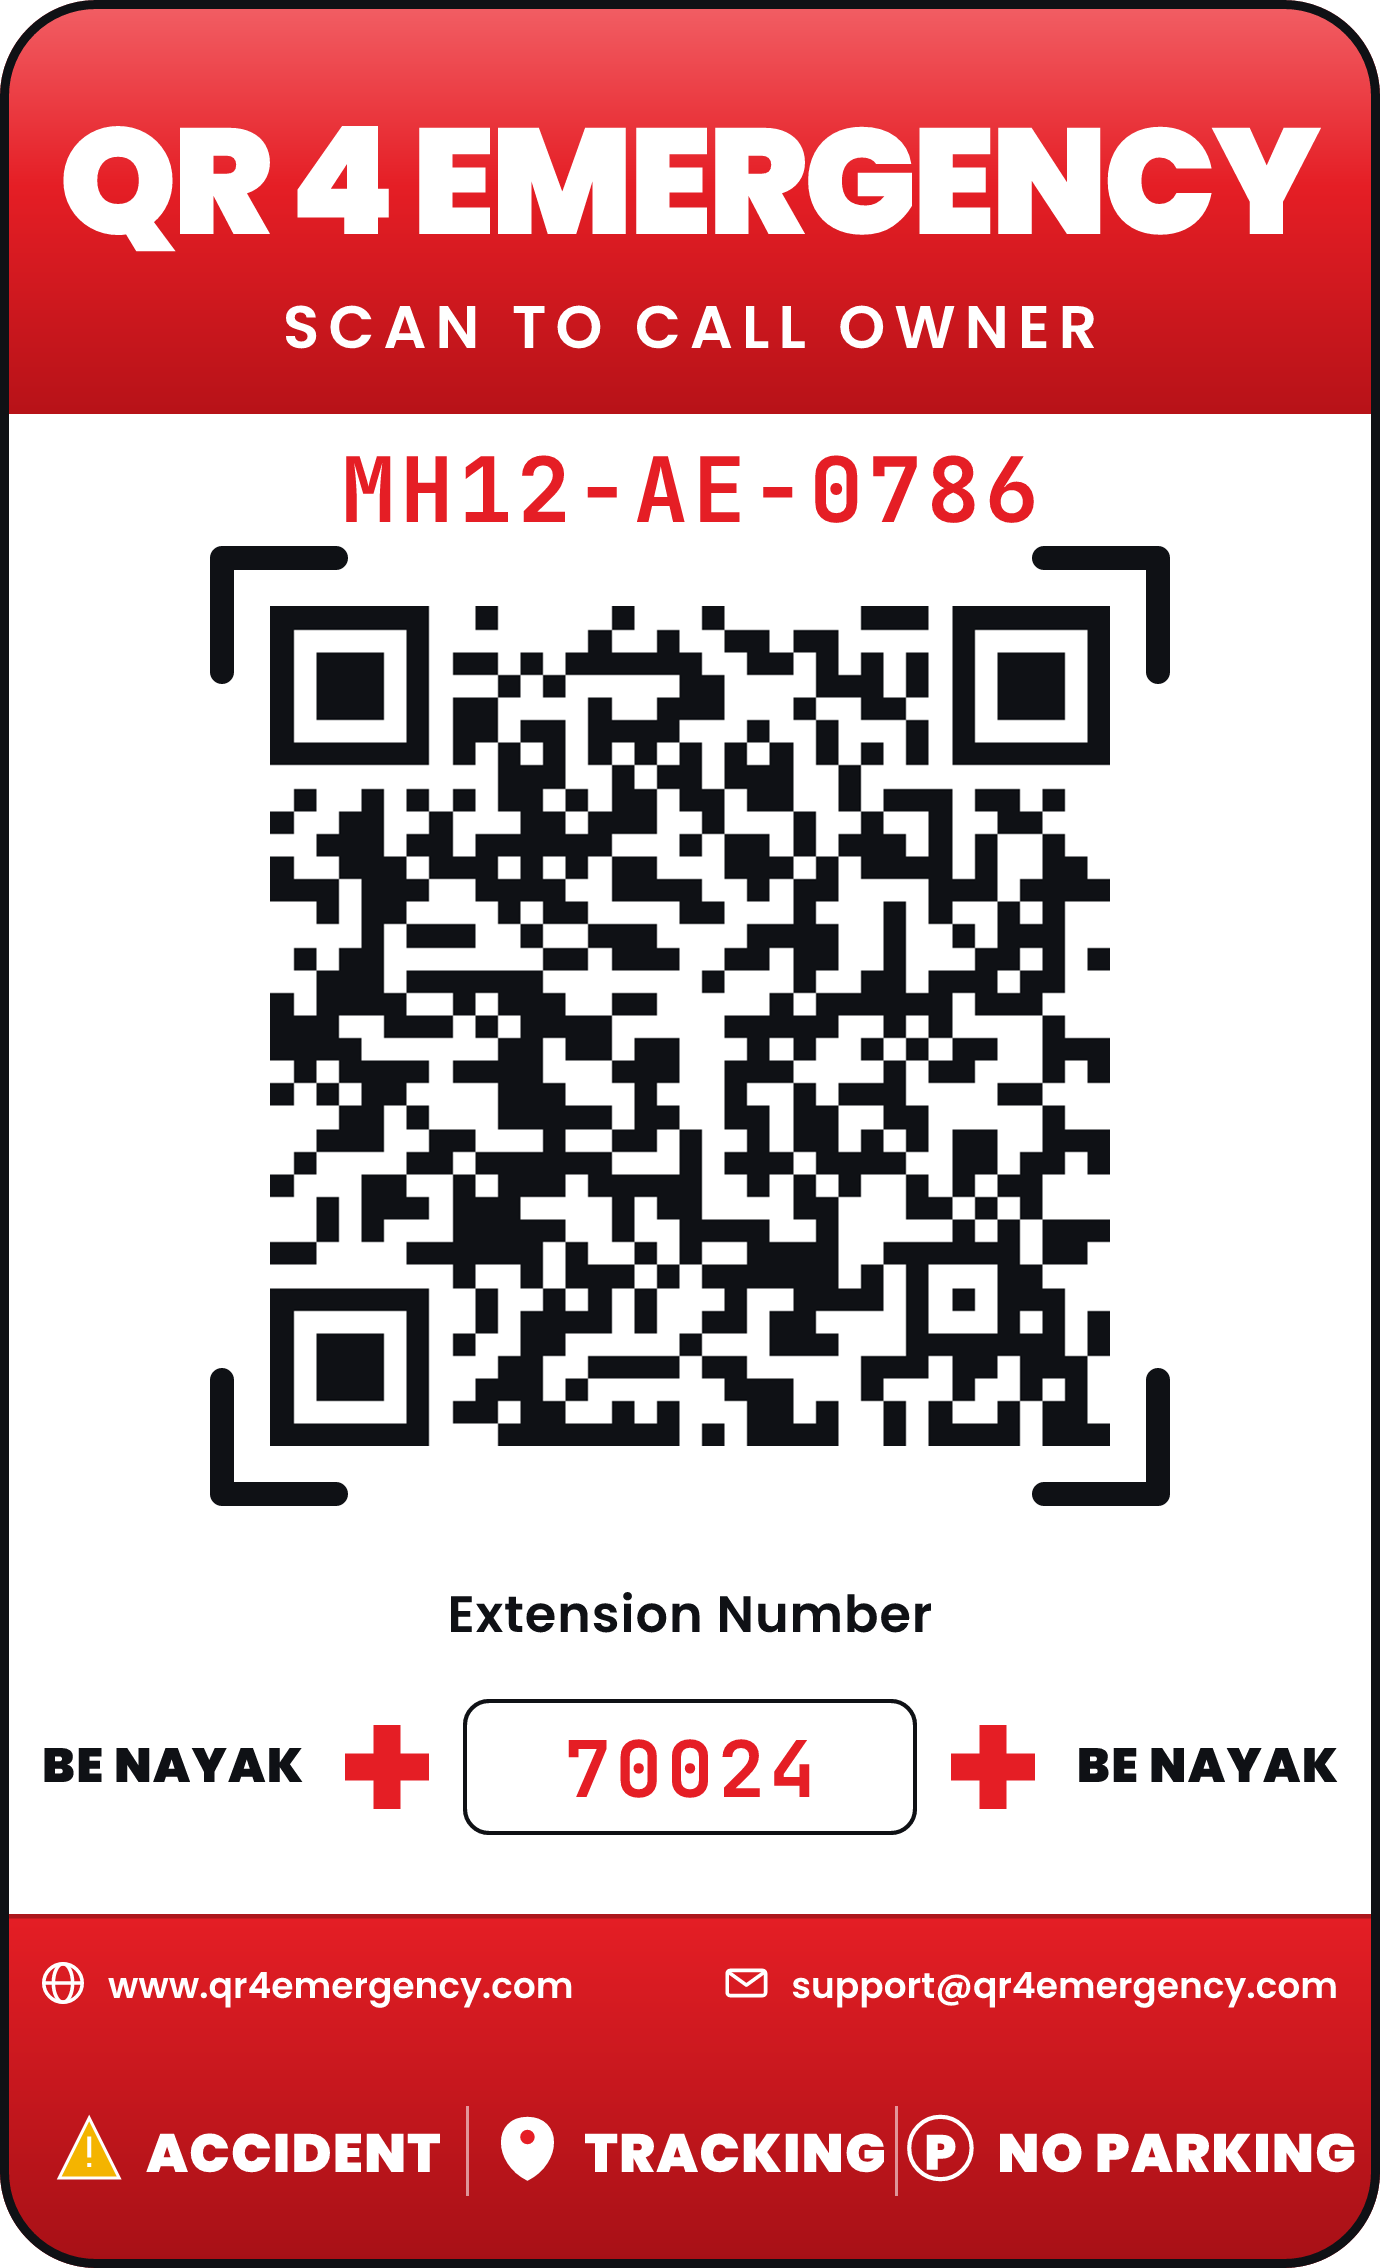
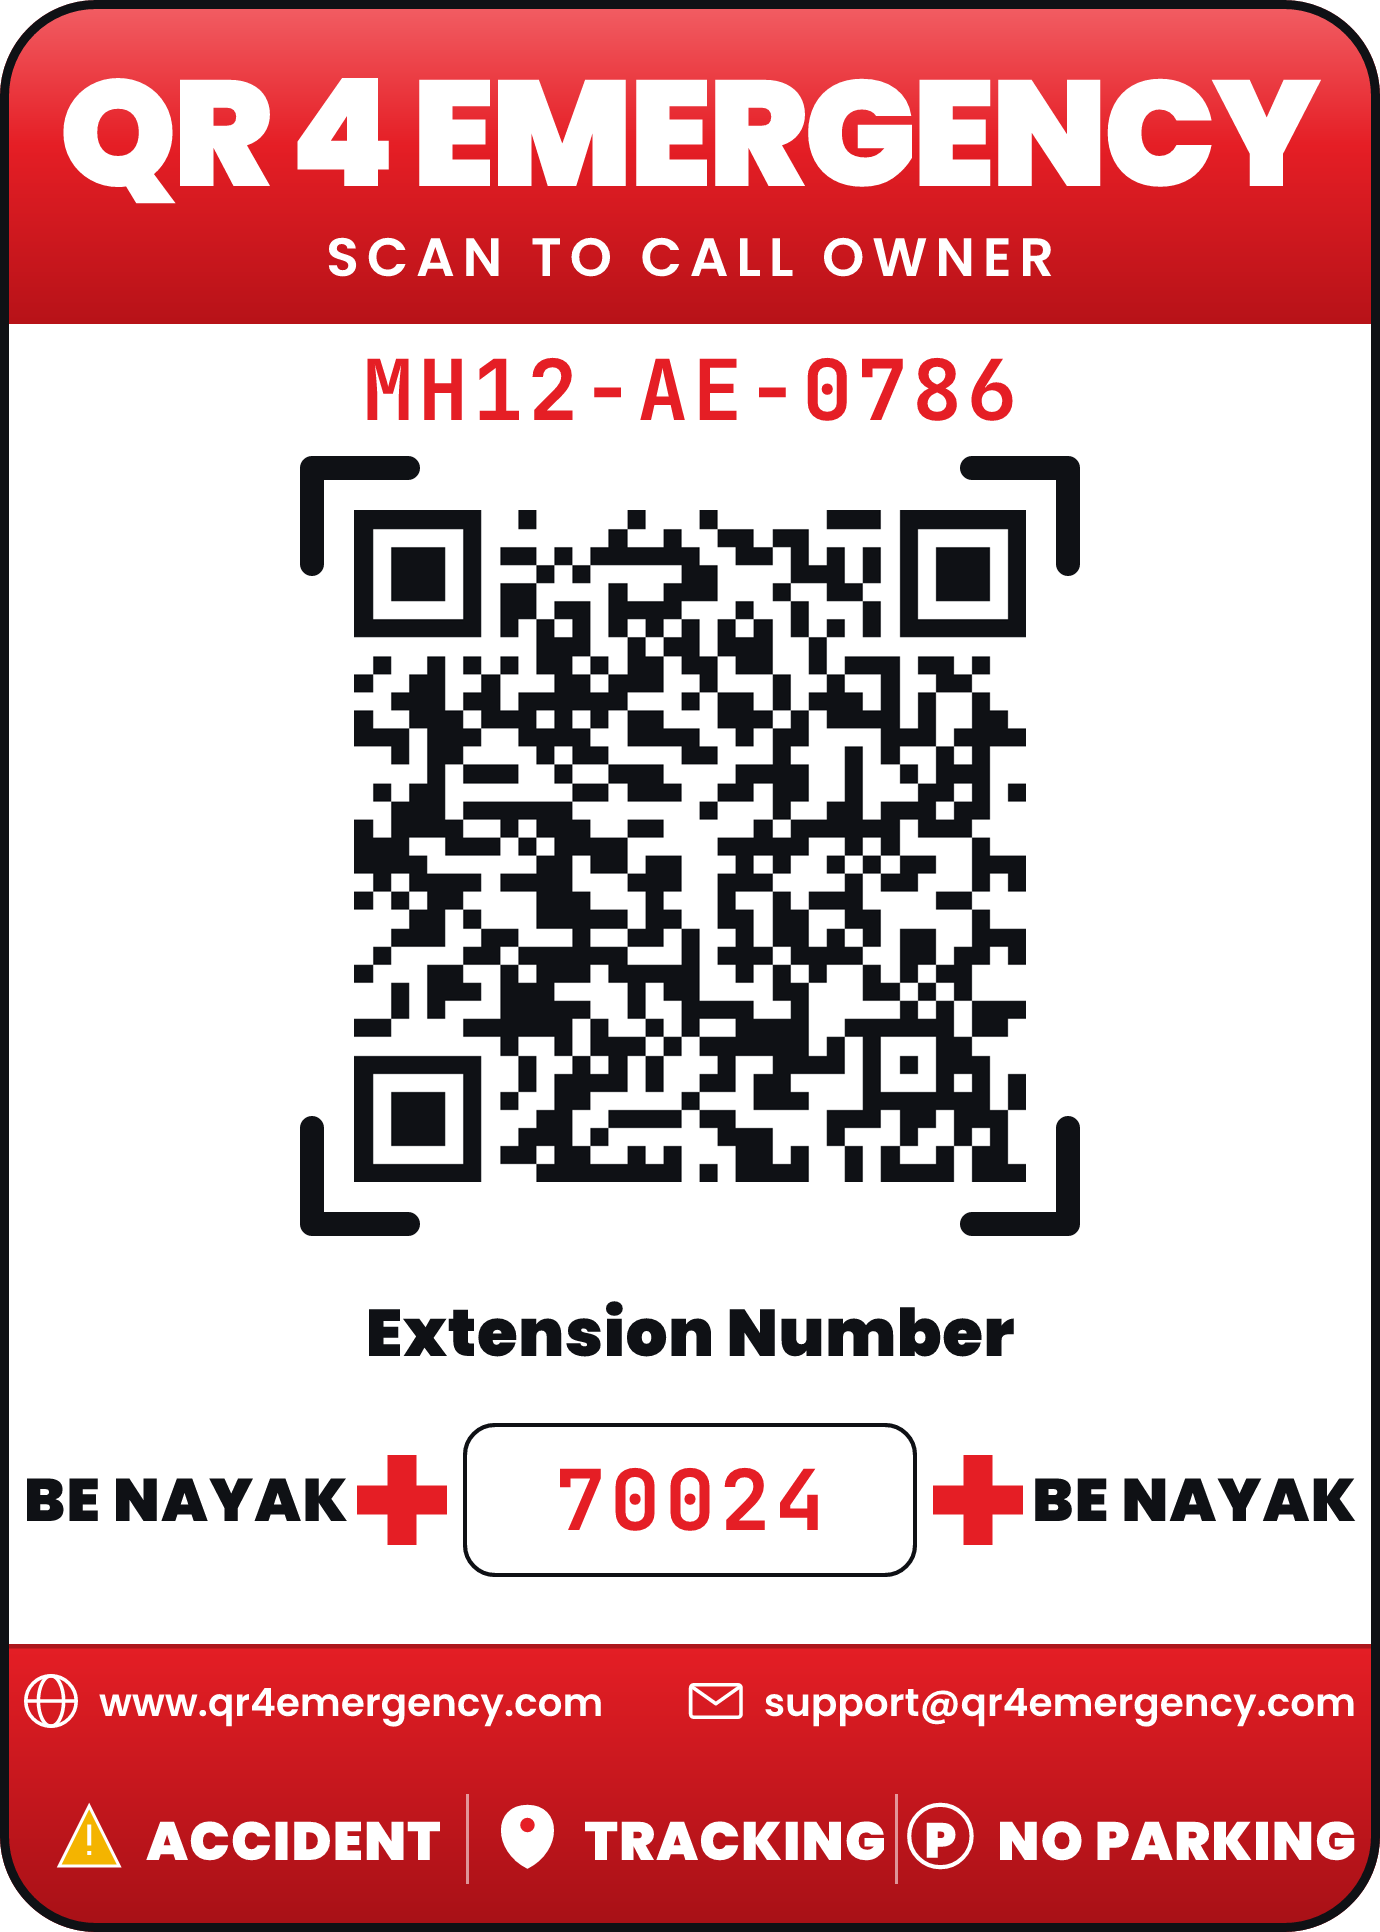
feat: refine buildStickerSvg function for improved layout and visual consistency

diff --git a/src/utils/sticker.js b/src/utils/sticker.js
@@ -242,35 +242,35 @@ const W = 460;
  * @returns {string} SVG document
  */
 function buildStickerSvg({ qrPngB64, digits, showVehicle, vehicleNumber }) {
-  // Vertical layout — anchors declared top-down so the file reads in
-  // the same order as the sticker. Bumped to match the reference art:
-  // taller header for a much bigger "QR 4 EMERGENCY" wordmark, taller
-  // footer for larger badges + icons, outer red border ring.
-  const HEADER_H = 138;
+  // Vertical layout — compact spec: tighter red bands (header + footer),
+  // smaller QR frame, larger middle-section fonts (Extension Number,
+  // BE NAYAK). The header keeps the big wordmark by reducing the
+  // internal padding, not the type size.
+  const HEADER_H = 108;
   const VEHICLE_ROW_H = showVehicle ? 44 : 8;
   const QR_FRAME_TOP = HEADER_H + VEHICLE_ROW_H;
-  const QR_FRAME_W = 320;
-  const QR_FRAME_H = 320;
+  const QR_FRAME_W = 260;
+  const QR_FRAME_H = 260;
   const QR_FRAME_X = (W - QR_FRAME_W) / 2;
-  const QR_SIZE = 280;
+  const QR_SIZE = 224;
   const QR_X = (W - QR_SIZE) / 2;
   const QR_Y = QR_FRAME_TOP + (QR_FRAME_H - QR_SIZE) / 2;
 
   const AFTER_QR_Y = QR_FRAME_TOP + QR_FRAME_H;
-  const EXT_LABEL_Y = AFTER_QR_Y + 42;
+  const EXT_LABEL_Y = AFTER_QR_Y + 40;
   const ROW_Y = EXT_LABEL_Y + 22;
-  const ROW_H = 46;
+  const ROW_H = 52;
 
-  const FOOTER_TOP = ROW_Y + ROW_H + 26;
-  const FOOTER_H = 118;
+  const FOOTER_TOP = ROW_Y + ROW_H + 22;
+  const FOOTER_H = 96;
   const H = FOOTER_TOP + FOOTER_H;
 
   // Bracket arm length — bold Ls at every corner of the QR frame.
-  // Thicker (8) balances better against the QR modules than 6.
-  const ARM = 42;
+  // Scaled down proportionally to the smaller 260px QR frame.
+  const ARM = 36;
   const BRACKET_W = 8;
 
-  // Outer border ring — thin red stroke around the entire sticker.
+  // Outer border ring — thin black stroke around the entire sticker.
   // Reference art shows this as part of the printed edge trim; sticker
   // vinyls also benefit from a visible cut-line for guillotine trimming.
   const BORDER_W = 3;
@@ -288,23 +288,28 @@ function buildStickerSvg({ qrPngB64, digits, showVehicle, vehicleNumber }) {
     `;
   };
 
-  // Extension pill — sized to give 5-digit extension numbers room to
-  // breathe. Was 140×42; 150×44 gives ~5px more horizontal padding.
+  // Extension pill — sized proportionally to the larger BE NAYAK
+  // labels flanking it. 150×50 keeps ~5px of vertical padding around
+  // the 28pt mono digits and holds a 5-digit extension without cramping.
   const PILL_W = 150;
-  const PILL_H = 44;
+  const PILL_H = 50;
   const PILL_X = (W - PILL_W) / 2;
   const PILL_Y = ROW_Y + (ROW_H - PILL_H) / 2;
 
   // Bottom row horizontal layout: BE NAYAK ... cross ... pill ... cross ... BE NAYAK
   // Every gap is computed from real measured widths so the row stays
   // perfectly symmetric — no hardcoded label-width guesses that drift
-  // when font or copy changes.
-  const CROSS_SIZE = 28;
-  const CROSS_TO_PILL_GAP = 12;
+  // when font or copy changes. Cross 30 balances the 20pt BE NAYAK
+  // without eating so much horizontal room that BE NAYAK collides
+  // with it (which happened at 32 + 170px pill).
+  const CROSS_SIZE = 30;
+  const CROSS_TO_PILL_GAP = 6;
   const leftCrossCx = PILL_X - CROSS_TO_PILL_GAP - CROSS_SIZE / 2;
   const rightCrossCx = PILL_X + PILL_W + CROSS_TO_PILL_GAP + CROSS_SIZE / 2;
-  const leftLabelX = 14;
-  const rightLabelX = W - 14;
+  // BE NAYAK anchors — pushed closer to the sticker edges so the 20pt
+  // wordmark has room to render without colliding with the crosses.
+  const leftLabelX = 8;
+  const rightLabelX = W - 8;
   const rowCy = ROW_Y + ROW_H / 2;
 
   return `<?xml version="1.0" encoding="UTF-8"?>
@@ -357,14 +362,14 @@ function buildStickerSvg({ qrPngB64, digits, showVehicle, vehicleNumber }) {
          curved-plastic look without needing a full inner-shadow filter. -->
     <rect x="0" y="0" width="${W}" height="3" fill="#FFFFFF" opacity="0.22"/>
     <!-- "QR 4 EMERGENCY" wordmark — sized to fill ~90% of the sticker
-         width, matching the reference art. Poppins Black at size 50
-         with tighter tracking so it reads as one solid wordmark and
-         stays inside the sticker edges (W=460 minus edge pad). -->
-    ${textPath('QR 4 EMERGENCY', W / 2, 78, {
+         width. Poppins Black at size 50 with tighter tracking so it
+         reads as one solid wordmark and stays inside the sticker edges.
+         Baselines shifted up for the compact 108px header. -->
+    ${textPath('QR 4 EMERGENCY', W / 2, 62, {
       font: FONT_HEADING, size: 50, fill: WHITE, anchor: 'middle', letterSpacing: -1.5,
     })}
-    ${textPath('SCAN TO CALL OWNER', W / 2, 116, {
-      font: FONT_BODY, size: 20, fill: WHITE, anchor: 'middle', letterSpacing: 3.0,
+    ${textPath('SCAN TO CALL OWNER', W / 2, 92, {
+      font: FONT_BODY, size: 18, fill: WHITE, anchor: 'middle', letterSpacing: 2.6,
     })}
 
     <!-- ── Vehicle number — always shown when supplied (post-activation
@@ -373,8 +378,8 @@ function buildStickerSvg({ qrPngB64, digits, showVehicle, vehicleNumber }) {
          printed sticker artwork. ─────────────────────────────────── -->
     ${
       showVehicle
-        ? textPath(formatVehicleNumber(vehicleNumber), W / 2, HEADER_H + 36, {
-            font: FONT_MONO, size: 30, fill: RED, anchor: 'middle', letterSpacing: 1.5,
+        ? textPath(formatVehicleNumber(vehicleNumber), W / 2, HEADER_H + 32, {
+            font: FONT_MONO, size: 28, fill: RED, anchor: 'middle', letterSpacing: 1.5,
           })
         : ''
     }
@@ -411,28 +416,29 @@ function buildStickerSvg({ qrPngB64, digits, showVehicle, vehicleNumber }) {
 
     <!-- ── "Extension Number" label ────────────────────────── -->
     ${textPath('Extension Number', W / 2, EXT_LABEL_Y, {
-      font: FONT_BODY, size: 17, fill: INK, anchor: 'middle', letterSpacing: 0.3,
+      font: FONT_HEADING, size: 22, fill: INK, anchor: 'middle', letterSpacing: 0.2,
     })}
 
     <!-- ── Bottom row: BE NAYAK · cross · pill · cross · BE NAYAK ── -->
-    ${textPath('BE NAYAK', leftLabelX, rowCy + 5, {
-      font: FONT_HEADING, size: 16, fill: INK, anchor: 'start', letterSpacing: 0.5,
+    ${textPath('BE NAYAK', leftLabelX, rowCy + 7, {
+      font: FONT_HEADING, size: 20, fill: INK, anchor: 'start', letterSpacing: 0.5,
     })}
     ${cross(leftCrossCx, rowCy, CROSS_SIZE)}
 
     <!-- White pill with red digits and a thin dark outline — matches the
          printed sticker artwork exactly. Kept flat (no gradient / gloss)
-         so the digits pop crisply against the plain white body. -->
+         so the digits pop crisply against the plain white body. Digits
+         baseline centred vertically within the taller 52px pill. -->
     <rect x="${PILL_X}" y="${PILL_Y}" width="${PILL_W}" height="${PILL_H}"
-          rx="8" ry="8" fill="${WHITE}"
+          rx="10" ry="10" fill="${WHITE}"
           stroke="${INK}" stroke-width="1.4"/>
-    ${textPath(digits || '—', W / 2, PILL_Y + 32, {
-      font: FONT_MONO, size: 26, fill: RED, anchor: 'middle', letterSpacing: 1.5,
+    ${textPath(digits || '—', W / 2, PILL_Y + 35, {
+      font: FONT_MONO, size: 28, fill: RED, anchor: 'middle', letterSpacing: 1.5,
     })}
 
     ${cross(rightCrossCx, rowCy, CROSS_SIZE)}
-    ${textPath('BE NAYAK', rightLabelX, rowCy + 5, {
-      font: FONT_HEADING, size: 16, fill: INK, anchor: 'end', letterSpacing: 0.5,
+    ${textPath('BE NAYAK', rightLabelX, rowCy + 7, {
+      font: FONT_HEADING, size: 20, fill: INK, anchor: 'end', letterSpacing: 0.5,
     })}
 
     <!-- ── Red footer with two icon rows ───────────────────── -->
@@ -442,11 +448,11 @@ function buildStickerSvg({ qrPngB64, digits, showVehicle, vehicleNumber }) {
     <rect x="0" y="${FOOTER_TOP}" width="${W}" height="1.5" fill="#000000" opacity="0.25"/>
 
     <!-- Row 1: globe + website | mail + email -->
-    ${footerRow1(FOOTER_TOP + 26)}
+    ${footerRow1(FOOTER_TOP + 22)}
 
     <!-- Row 2: warning + ACCIDENT | pin + TRACKING | P + NO PARKING,
          separated by thin white vertical dividers -->
-    ${footerRow2(FOOTER_TOP + 82)}
+    ${footerRow2(FOOTER_TOP + 68)}
   </g>
 
   <!-- ── Outer black border ring ──────────────────────────────
@@ -468,11 +474,14 @@ function buildStickerSvg({ qrPngB64, digits, showVehicle, vehicleNumber }) {
 // changes. Left-anchored on the left, right-anchored on the right —
 // gives symmetric visual weight against the sticker edges.
 function footerRow1(y) {
-  const ICON_SIZE = 14;
-  const ICON_TEXT_GAP = 8; // px gap between icon's right edge and text's left edge
-  const EDGE_PAD = 14;     // px from sticker edge to first/last element
+  const ICON_SIZE = 18;
+  const ICON_TEXT_GAP = 7; // px gap between icon's right edge and text's left edge
+  const EDGE_PAD = 8;      // px from sticker edge to first/last element
   const font = FONT_BODY;
-  const size = 12;
+  // 14pt at 460px sticker width was over-eating room between the two
+  // chips (mail icon touched ".com" of the website URL). 13pt is the
+  // largest that leaves ~40px of centre breathing room. Keep icon 18px.
+  const size = 13;
 
   // Left side: globe icon at EDGE_PAD, text follows.
   const leftIconX = EDGE_PAD;
@@ -488,13 +497,18 @@ function footerRow1(y) {
   const rightTextLeft = rightTextRight - emailWidth;
   const rightIconX = rightTextLeft - ICON_TEXT_GAP - ICON_SIZE;
 
+  // Icon Y is derived from ICON_SIZE so the icon centerline stays
+  // vertically aligned with the text visual centre no matter how big
+  // the icon gets. Previous hardcoded `y - 10` drifted when icon size
+  // was bumped from 14 → 18.
+  const iconY = y - ICON_SIZE / 2 - 3;
   return `
-    ${iconGlobe(leftIconX, y - 10, ICON_SIZE, WHITE)}
+    ${iconGlobe(leftIconX, iconY, ICON_SIZE, WHITE)}
     ${textPath('www.qr4emergency.com', leftTextX, y + 2, {
       font, size, fill: WHITE, anchor: 'start',
     })}
 
-    ${iconMail(rightIconX, y - 10, ICON_SIZE, WHITE)}
+    ${iconMail(rightIconX, iconY, ICON_SIZE, WHITE)}
     ${textPath(emailText, rightTextRight, y + 2, {
       font, size, fill: WHITE, anchor: 'end',
     })}
